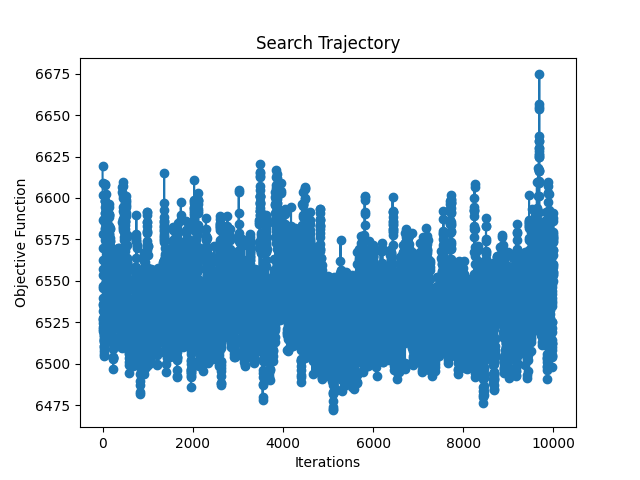
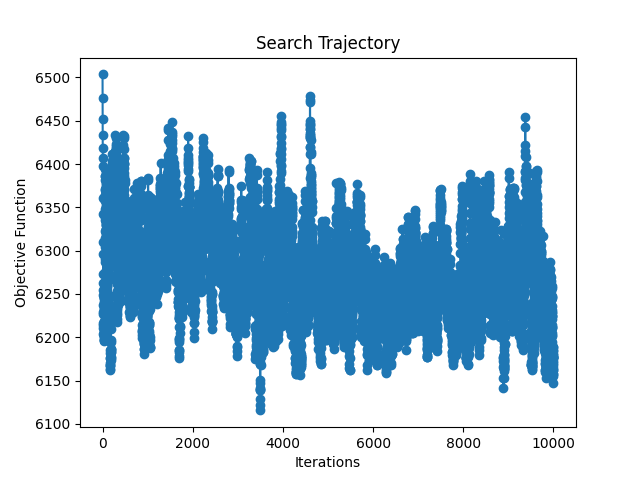
Fix intra route relocation Move error.

diff --git a/Solver.py b/Solver.py
@@ -108,8 +108,8 @@ class Solver:
         self.used = {self.depot.ID}
         self.sol = None
         self.bestSolution = None
-        self.minTabuTenure = 30
-        self.maxTabuTenure = 45
+        self.minTabuTenure = 20
+        self.maxTabuTenure = 30
         self.tabuTenure = 30
 
     def solve(self):
@@ -372,53 +372,20 @@ class Solver:
                 rt2: Route = self.sol.routes[targetRouteIndex]
                 for originNodeIndex in range(1, len(rt1.sequenceOfNodes) - 1):
                     for targetNodeIndex in range(0, len(rt2.sequenceOfNodes) - 1):
-
-                        A: Node = rt1.sequenceOfNodes[originNodeIndex - 1]
+                        if originRouteIndex == targetRouteIndex and (
+                                targetNodeIndex == originNodeIndex or targetNodeIndex == originNodeIndex - 1):
+                            continue
                         B: Node = rt1.sequenceOfNodes[originNodeIndex]
-                        cut_of_AB = len(rt1.sequenceOfNodes) - A.positionInRoute - 1
-                        C: Node = rt1.sequenceOfNodes[originNodeIndex + 1]
-                        cut_of_BC = len((rt1.sequenceOfNodes)) - B.positionInRoute - 1
-                        F: Node = rt2.sequenceOfNodes[targetNodeIndex]
-                        G: Node = rt2.sequenceOfNodes[targetNodeIndex + 1]
-                        cut_of_FG = len(rt2.sequenceOfNodes) - F.positionInRoute - 1
-                        oldCost = rt1.cost + rt2.cost
                         if rt1 != rt2:
                             if rt2.load + B.demand > rt2.capacity:
                                 continue
+                            originRtCostChange, targetRtCostChange, moveCost = self.Inner_Route_Relocation_Move(
+                                originRouteIndex, targetRouteIndex, originNodeIndex, targetNodeIndex)
                         else:
-                            # TODO FIX PROBLEM WITH SAME ROUTE RELOCATION MOOVE COST
-                            continue
-                        A: Node = rt1.sequenceOfNodes[originNodeIndex - 1]
-                        B: Node = rt1.sequenceOfNodes[originNodeIndex]
-                        cut_of_AB = len(rt1.sequenceOfNodes) - A.positionInRoute - 1
-                        C: Node = rt1.sequenceOfNodes[originNodeIndex + 1]
-                        cut_of_BC = len((rt1.sequenceOfNodes)) - B.positionInRoute - 1
-                        F: Node = rt2.sequenceOfNodes[targetNodeIndex]
-                        G: Node = rt2.sequenceOfNodes[targetNodeIndex + 1]
-                        cut_of_FG = len(rt2.sequenceOfNodes) - F.positionInRoute - 1
-                        oldCost = rt1.cost + rt2.cost
-                        cost_cummulative_removed_of_rt1 = 0
-                        for i in range(A.positionInRoute, 0, -1):
-                            pred = i - 1
-                            n1 = rt1.sequenceOfNodes[i]
-                            n2 = rt1.sequenceOfNodes[pred]
-                            cost_cummulative_removed_of_rt1 += self.distanceMatrix[n1.ID][n2.ID]
-                        cost_removed = cut_of_AB * self.distanceMatrix[A.ID][B.ID] + cut_of_BC * \
-                                       self.distanceMatrix[B.ID][C.ID]
-                        cost_cummulative_removed_of_rt1 += (len(rt1.sequenceOfNodes) - 2) * 10
-                        originRtCostChange = -cost_cummulative_removed_of_rt1 - \
-                                             cost_removed + cut_of_BC * self.distanceMatrix[A.ID][C.ID]
-                        cost_cummulative_add_of_rt2 = 0
-                        for i in range(F.positionInRoute, 0, -1):
-                            pred = i - 1
-                            n1 = rt2.sequenceOfNodes[i]
-                            n2 = rt2.sequenceOfNodes[pred]
-                            cost_cummulative_add_of_rt2 += self.distanceMatrix[n1.ID][n2.ID]
-                        cost_cummulative_add_of_rt2 += (len(rt2.sequenceOfNodes) - 1) * 10
-                        targetRtCostChange = cost_cummulative_add_of_rt2 - cut_of_FG * self.distanceMatrix[F.ID][G.ID] \
-                                             + cut_of_FG * self.distanceMatrix[B.ID][G.ID] \
-                                             + (cut_of_FG + 1) * self.distanceMatrix[F.ID][B.ID]
-                        moveCost = targetRtCostChange + originRtCostChange
+                            moveCost = self.Intra_Route_Relocation_Move(originRouteIndex, targetRouteIndex,
+                                                                        originNodeIndex, targetNodeIndex)
+                            originRtCostChange = targetRtCostChange = moveCost
+                        # TODO FIX PROBLEM WITH SAME ROUTE RELOCATION MOOVE COST
 
                         if (self.MoveIsTabu(B, iterator, moveCost)):
                             continue
@@ -427,6 +394,81 @@ class Solver:
                             self.StoreBestRelocationMove(originRouteIndex, targetRouteIndex, originNodeIndex,
                                                          targetNodeIndex, moveCost, originRtCostChange,
                                                          targetRtCostChange, rm)
+
+    def Intra_Route_Relocation_Move(self, rt1Index, rt2Index, n1Index, n2Index):
+        rt1 = self.sol.routes[rt1Index]
+        rt2 = self.sol.routes[rt2Index]
+        originNodeIndex = n1Index
+        targetNodeIndex = n2Index
+        A: Node = rt1.sequenceOfNodes[originNodeIndex - 1]
+        B: Node = rt1.sequenceOfNodes[originNodeIndex]
+        C: Node = rt1.sequenceOfNodes[originNodeIndex + 1]
+        F: Node = rt2.sequenceOfNodes[targetNodeIndex]
+        G: Node = rt2.sequenceOfNodes[targetNodeIndex + 1]
+        cut_of_AB = len(rt1.sequenceOfNodes) - A.positionInRoute - 1
+        cut_of_BC = len((rt1.sequenceOfNodes)) - B.positionInRoute - 1
+        cut_of_FG = len(rt2.sequenceOfNodes) - F.positionInRoute - 1
+        if originNodeIndex < targetNodeIndex:
+            costRemoved = cut_of_AB * self.distanceMatrix[A.ID][B.ID] + cut_of_BC * self.distanceMatrix[B.ID][
+                C.ID] + cut_of_FG * self.distanceMatrix[F.ID][G.ID]
+            costAdded = cut_of_AB * self.distanceMatrix[A.ID][C.ID] + cut_of_FG * self.distanceMatrix[B.ID][
+                G.ID] + (
+                                cut_of_FG + 1) * self.distanceMatrix[F.ID][B.ID]
+            prev = C
+            for i in range(C.positionInRoute + 1, F.positionInRoute + 1):
+                nex = rt1.sequenceOfNodes[i]
+                costAdded += self.distanceMatrix[prev.ID][nex.ID]
+                prev = nex
+        else:
+            costAdded = cut_of_BC * self.distanceMatrix[A.ID][C.ID] + cut_of_FG * self.distanceMatrix[F.ID][
+                B.ID] + (cut_of_FG - 1) * self.distanceMatrix[B.ID][G.ID]
+            costRemoved = cut_of_AB * self.distanceMatrix[A.ID][B.ID] + cut_of_BC * self.distanceMatrix[B.ID][
+                C.ID] + cut_of_FG * self.distanceMatrix[F.ID][G.ID]
+            prev = G
+            for i in range(G.positionInRoute + 1, A.positionInRoute + 1):
+                nxt = rt1.sequenceOfNodes[i]
+                costRemoved += self.distanceMatrix[prev.ID][nxt.ID]
+                prev = nxt
+        move_cost = costAdded - costRemoved
+        return move_cost
+
+    def Inner_Route_Relocation_Move(self, rt1Index, rt2Index, node1Index, node2Index):
+        rt1 = self.sol.routes[rt1Index]
+        rt2 = self.sol.routes[rt2Index]
+        originNodeIndex = node1Index
+        targetNodeIndex = node2Index
+        A: Node = rt1.sequenceOfNodes[originNodeIndex - 1]
+        B: Node = rt1.sequenceOfNodes[originNodeIndex]
+        C: Node = rt1.sequenceOfNodes[originNodeIndex + 1]
+        F: Node = rt2.sequenceOfNodes[targetNodeIndex]
+        G: Node = rt2.sequenceOfNodes[targetNodeIndex + 1]
+        cut_of_AB = len(rt1.sequenceOfNodes) - A.positionInRoute - 1
+        cut_of_BC = len((rt1.sequenceOfNodes)) - B.positionInRoute - 1
+        cut_of_FG = len(rt2.sequenceOfNodes) - F.positionInRoute - 1
+        cost_cummulative_removed_of_rt1 = 0
+        for i in range(A.positionInRoute, 0, -1):
+            pred = i - 1
+            n1 = rt1.sequenceOfNodes[i]
+            n2 = rt1.sequenceOfNodes[pred]
+            cost_cummulative_removed_of_rt1 += self.distanceMatrix[n1.ID][n2.ID]
+        cost_removed = cut_of_AB * self.distanceMatrix[A.ID][B.ID] + cut_of_BC * \
+                       self.distanceMatrix[B.ID][C.ID]
+        cost_cummulative_removed_of_rt1 += (len(rt1.sequenceOfNodes) - 2) * 10
+        originRtCostChange = -cost_cummulative_removed_of_rt1 - \
+                             cost_removed + cut_of_BC * self.distanceMatrix[A.ID][C.ID]
+        cost_cummulative_add_of_rt2 = 0
+        for i in range(F.positionInRoute, 0, -1):
+            pred = i - 1
+            n1 = rt2.sequenceOfNodes[i]
+            n2 = rt2.sequenceOfNodes[pred]
+            cost_cummulative_add_of_rt2 += self.distanceMatrix[n1.ID][n2.ID]
+        cost_cummulative_add_of_rt2 += (len(rt2.sequenceOfNodes) - 1) * 10
+        targetRtCostChange = cost_cummulative_add_of_rt2 - cut_of_FG * self.distanceMatrix[F.ID][
+            G.ID] \
+                             + cut_of_FG * self.distanceMatrix[B.ID][G.ID] \
+                             + (cut_of_FG + 1) * self.distanceMatrix[F.ID][B.ID]
+        moveCost = targetRtCostChange + originRtCostChange
+        return originRtCostChange, targetRtCostChange, moveCost
 
     def FindBestSwapMove(self, sm, iterator):
         for firstRouteIndex in range(0, len(self.sol.routes)):
